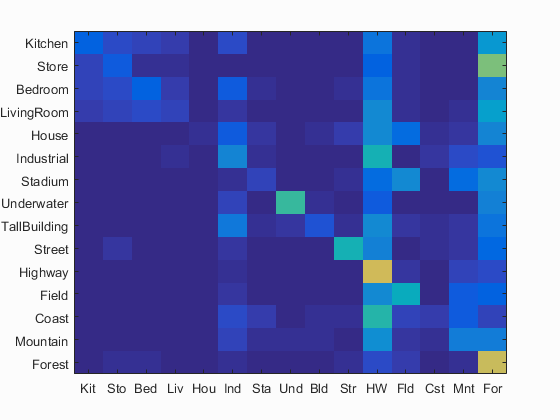
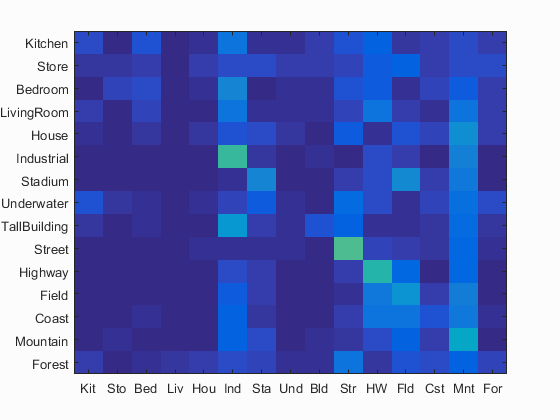
added tiny image

diff --git a/code/results_webpage/index.html b/code/results_webpage/index.html
@@ -36,7 +36,7 @@ h1 {
 <img src="confusion_matrix.png">
 
 <br>
-Accuracy (mean of diagonal of confusion matrix) is 0.268
+Accuracy (mean of diagonal of confusion matrix) is 0.201
 <p>
 
 <table border=0 cellpadding=4 cellspacing=1>
@@ -50,183 +50,183 @@ Accuracy (mean of diagonal of confusion matrix) is 0.268
 </tr>
 <tr>
 <td>Kitchen</td>
-<td>0.130</td>
-<td bgcolor=LightBlue><img src="thumbnails/Kitchen_sun_adcpeitzkudxavrz.jpg" width=101 height=75></td>
-<td bgcolor=LightBlue><img src="thumbnails/Kitchen_sun_actxaqzieosgkkbu.jpg" width=113 height=75></td>
-<td bgcolor=LightGreen><img src="thumbnails/Kitchen_sun_aaevfnfhjudhbvxh.jpg" width=75 height=75></td>
-<td bgcolor=LightGreen><img src="thumbnails/Kitchen_sun_aahxnzrpowefyvrp.jpg" width=113 height=75></td>
-<td bgcolor=LightCoral><img src="thumbnails/LivingRoom_sun_acejfwtqpleymxpj.jpg" width=100 height=75><br><small>LivingRoom</small></td>
-<td bgcolor=LightCoral><img src="thumbnails/Store_sun_ajxqnbvuflmzhcig.jpg" width=85 height=75><br><small>Store</small></td>
-<td bgcolor=#FFBB55><img src="thumbnails/Kitchen_sun_aahyfqarmjfribbj.jpg" width=101 height=75><br><small>Bedroom</small></td>
-<td bgcolor=#FFBB55><img src="thumbnails/Kitchen_sun_aauyknaheebshrxq.jpg" width=101 height=75><br><small>Field</small></td>
+<td>0.080</td>
+<td bgcolor=LightBlue><img src="thumbnails/Kitchen_sun_actuxtkmvrrackkr.jpg" width=101 height=75></td>
+<td bgcolor=LightBlue><img src="thumbnails/Kitchen_sun_actxvsxmlpovpnrs.jpg" width=75 height=75></td>
+<td bgcolor=LightGreen><img src="thumbnails/Kitchen_sun_aapxtqxqddghwgdr.jpg" width=75 height=75></td>
+<td bgcolor=LightGreen><img src="thumbnails/Kitchen_sun_aaxhazbcsixzxyca.jpg" width=101 height=75></td>
+<td bgcolor=LightCoral><img src="thumbnails/TallBuilding_sun_agqelgngebcticrt.jpg" width=75 height=75><br><small>TallBuilding</small></td>
+<td bgcolor=LightCoral><img src="thumbnails/Forest_sun_apswbydmjvgdlbna.jpg" width=75 height=75><br><small>Forest</small></td>
+<td bgcolor=#FFBB55><img src="thumbnails/Kitchen_sun_abjllhhfuvcygwtk.jpg" width=101 height=75><br><small>Highway</small></td>
+<td bgcolor=#FFBB55><img src="thumbnails/Kitchen_sun_aauyknaheebshrxq.jpg" width=101 height=75><br><small>Mountain</small></td>
 </tr>
 <tr>
 <td>Store</td>
-<td>0.120</td>
-<td bgcolor=LightBlue><img src="thumbnails/Store_sun_abkaxecjpzdozrqn.jpg" width=75 height=75></td>
-<td bgcolor=LightBlue><img src="thumbnails/Store_sun_aaaevafjexfriuyd.jpg" width=92 height=75></td>
-<td bgcolor=LightGreen><img src="thumbnails/Store_sun_aqjwciodhwilnihu.jpg" width=101 height=75></td>
-<td bgcolor=LightGreen><img src="thumbnails/Store_sun_arddxtgagmcfpsvm.jpg" width=113 height=75></td>
-<td bgcolor=LightCoral><img src="thumbnails/Mountain_sun_agvastrefugkefza.jpg" width=75 height=75><br><small>Mountain</small></td>
-<td bgcolor=LightCoral><img src="thumbnails/Bedroom_sun_acloeslvyupgjdit.jpg" width=100 height=75><br><small>Bedroom</small></td>
-<td bgcolor=#FFBB55><img src="thumbnails/Store_sun_aondbduabvijnmch.jpg" width=101 height=75><br><small>Forest</small></td>
-<td bgcolor=#FFBB55><img src="thumbnails/Store_sun_ambbbzanwbsjjxhq.jpg" width=110 height=75><br><small>Highway</small></td>
+<td>0.040</td>
+<td bgcolor=LightBlue><img src="thumbnails/Store_sun_acuaonqldlmxutdf.jpg" width=101 height=75></td>
+<td bgcolor=LightBlue><img src="thumbnails/Store_sun_acnysjlijtghazqq.jpg" width=75 height=75></td>
+<td bgcolor=LightGreen><img src="thumbnails/Store_sun_aqfdlqzwlyuyvior.jpg" width=111 height=75></td>
+<td bgcolor=LightGreen><img src="thumbnails/Store_sun_aqlgjsjialfkpdjq.jpg" width=75 height=75></td>
+<td bgcolor=LightCoral><img src="thumbnails/Underwater_sun_abuqgmwcaosdaztn.jpg" width=101 height=75><br><small>Underwater</small></td>
+<td bgcolor=LightCoral><img src="thumbnails/Bedroom_sun_aclmoxwmazctsgls.jpg" width=113 height=75><br><small>Bedroom</small></td>
+<td bgcolor=#FFBB55><img src="thumbnails/Store_sun_akqpikmgyzrpoilg.jpg" width=113 height=75><br><small>Industrial</small></td>
+<td bgcolor=#FFBB55><img src="thumbnails/Store_sun_amgycegphrxbrtcj.jpg" width=112 height=75><br><small>Industrial</small></td>
 </tr>
 <tr>
 <td>Bedroom</td>
-<td>0.130</td>
-<td bgcolor=LightBlue><img src="thumbnails/Bedroom_sun_aabmkmpbqhgzvwae.jpg" width=111 height=75></td>
-<td bgcolor=LightBlue><img src="thumbnails/Bedroom_sun_aaqopqrpmqlxfvyh.jpg" width=101 height=75></td>
-<td bgcolor=LightGreen><img src="thumbnails/Bedroom_sun_acmxkzoujllvqulm.jpg" width=59 height=75></td>
+<td>0.090</td>
+<td bgcolor=LightBlue><img src="thumbnails/Bedroom_sun_aazezsbjqxzmlvcs.jpg" width=113 height=75></td>
+<td bgcolor=LightBlue><img src="thumbnails/Bedroom_sun_aanrntiofcptovst.jpg" width=75 height=75></td>
+<td bgcolor=LightGreen><img src="thumbnails/Bedroom_sun_aciovxcdhkottyqz.jpg" width=101 height=75></td>
 <td bgcolor=LightGreen><img src="thumbnails/Bedroom_sun_acrzlmezpcezarjf.jpg" width=113 height=75></td>
-<td bgcolor=LightCoral><img src="thumbnails/Kitchen_sun_abntrinbqbsqoowj.jpg" width=101 height=75><br><small>Kitchen</small></td>
-<td bgcolor=LightCoral><img src="thumbnails/Kitchen_sun_abhciiurocosucnf.jpg" width=75 height=75><br><small>Kitchen</small></td>
-<td bgcolor=#FFBB55><img src="thumbnails/Bedroom_sun_abszhhvqtdvdfotq.jpg" width=75 height=75><br><small>Industrial</small></td>
-<td bgcolor=#FFBB55><img src="thumbnails/Bedroom_sun_abnzyrekdisfnzfw.jpg" width=96 height=75><br><small>Forest</small></td>
+<td bgcolor=LightCoral><img src="thumbnails/Underwater_sun_aeoukrxgtybudeiw.jpg" width=101 height=75><br><small>Underwater</small></td>
+<td bgcolor=LightCoral><img src="thumbnails/House_sun_balobrqpjrvarzyb.jpg" width=73 height=75><br><small>House</small></td>
+<td bgcolor=#FFBB55><img src="thumbnails/Bedroom_sun_acllustchfmypoct.jpg" width=84 height=75><br><small>Industrial</small></td>
+<td bgcolor=#FFBB55><img src="thumbnails/Bedroom_sun_abzaicgobhjswlxg.jpg" width=101 height=75><br><small>Highway</small></td>
 </tr>
 <tr>
 <td>LivingRoom</td>
-<td>0.070</td>
-<td bgcolor=LightBlue><img src="thumbnails/LivingRoom_sun_aaowumblhfnwbgpm.jpg" width=75 height=75></td>
-<td bgcolor=LightBlue><img src="thumbnails/LivingRoom_sun_aaxbyfbrznnapktx.jpg" width=75 height=75></td>
-<td bgcolor=LightGreen><img src="thumbnails/LivingRoom_sun_acfzhwqjvlkdirxy.jpg" width=102 height=75></td>
-<td bgcolor=LightGreen><img src="thumbnails/LivingRoom_sun_adclhkpdgajlngxu.jpg" width=101 height=75></td>
-<td bgcolor=LightCoral><img src="thumbnails/Bedroom_sun_abozwtvxafyzsijk.jpg" width=87 height=75><br><small>Bedroom</small></td>
-<td bgcolor=LightCoral><img src="thumbnails/TallBuilding_sun_ahqzjvpqkhhlglgd.jpg" width=75 height=75><br><small>TallBuilding</small></td>
-<td bgcolor=#FFBB55><img src="thumbnails/LivingRoom_sun_acswhqyzyuwhdbog.jpg" width=113 height=75><br><small>Highway</small></td>
-<td bgcolor=#FFBB55><img src="thumbnails/LivingRoom_sun_abzrswymomympbwx.jpg" width=111 height=75><br><small>Mountain</small></td>
+<td>0.010</td>
+<td bgcolor=LightBlue><img src="thumbnails/LivingRoom_sun_aagbmvdpwigkggbz.jpg" width=75 height=75></td>
+<td bgcolor=LightBlue><img src="thumbnails/LivingRoom_sun_aasjlkqrfdcvegal.jpg" width=75 height=75></td>
+<td bgcolor=LightGreen><img src="thumbnails/LivingRoom_sun_acxzrwenixbhhmhr.jpg" width=113 height=75></td>
+<td bgcolor=LightGreen></td>
+<td bgcolor=LightCoral><img src="thumbnails/House_sun_baifmibakbdayypj.jpg" width=101 height=75><br><small>House</small></td>
+<td bgcolor=LightCoral><img src="thumbnails/Forest_sun_ahbooqazpiiakayv.jpg" width=75 height=75><br><small>Forest</small></td>
+<td bgcolor=#FFBB55><img src="thumbnails/LivingRoom_sun_abxrqfxdgjdamlot.jpg" width=113 height=75><br><small>Highway</small></td>
+<td bgcolor=#FFBB55><img src="thumbnails/LivingRoom_sun_adclhkpdgajlngxu.jpg" width=101 height=75><br><small>Highway</small></td>
 </tr>
 <tr>
 <td>House</td>
-<td>0.020</td>
-<td bgcolor=LightBlue><img src="thumbnails/House_sun_abmsyegxigswbaqk.jpg" width=75 height=75></td>
-<td bgcolor=LightBlue><img src="thumbnails/House_sun_acqcimbshrdlefho.jpg" width=75 height=75></td>
+<td>0.040</td>
+<td bgcolor=LightBlue><img src="thumbnails/House_sun_adyxsmijhzmzdfgp.jpg" width=75 height=75></td>
+<td bgcolor=LightBlue><img src="thumbnails/House_sun_aanptmsknhirrzed.jpg" width=86 height=75></td>
+<td bgcolor=LightGreen><img src="thumbnails/House_sun_anxeayrdiomwrhru.jpg" width=114 height=75></td>
 <td bgcolor=LightGreen><img src="thumbnails/House_sun_baicxhbtbrdzxomn.jpg" width=100 height=75></td>
-<td bgcolor=LightGreen><img src="thumbnails/House_sun_awoutdjtqmknttqu.jpg" width=89 height=75></td>
-<td bgcolor=LightCoral><img src="thumbnails/Street_sun_atkejtodbqhvppba.jpg" width=75 height=75><br><small>Street</small></td>
-<td bgcolor=LightCoral><img src="thumbnails/Mountain_sun_afhhnevciblqzhjp.jpg" width=75 height=75><br><small>Mountain</small></td>
-<td bgcolor=#FFBB55><img src="thumbnails/House_sun_aqvugobpkcupewkf.jpg" width=75 height=75><br><small>Forest</small></td>
-<td bgcolor=#FFBB55><img src="thumbnails/House_sun_avbwlwempsfepkyx.jpg" width=75 height=75><br><small>Forest</small></td>
+<td bgcolor=LightCoral><img src="thumbnails/Store_sun_aiqtvlvgyhotrdhm.jpg" width=100 height=75><br><small>Store</small></td>
+<td bgcolor=LightCoral><img src="thumbnails/Store_sun_aqvwxcsdmkvrvkpd.jpg" width=101 height=75><br><small>Store</small></td>
+<td bgcolor=#FFBB55><img src="thumbnails/House_sun_amkcollfpzjaurpv.jpg" width=105 height=75><br><small>Coast</small></td>
+<td bgcolor=#FFBB55><img src="thumbnails/House_sun_ayynraeimvudtlij.jpg" width=116 height=75><br><small>Industrial</small></td>
 </tr>
 <tr>
 <td>Industrial</td>
-<td>0.260</td>
-<td bgcolor=LightBlue><img src="thumbnails/Industrial_sun_awfrigzimptflojr.jpg" width=75 height=75></td>
-<td bgcolor=LightBlue><img src="thumbnails/Industrial_sun_aicwjozvmwswfokp.jpg" width=75 height=75></td>
-<td bgcolor=LightGreen><img src="thumbnails/Industrial_sun_atftsrjnmaxwjmjz.jpg" width=88 height=75></td>
-<td bgcolor=LightGreen><img src="thumbnails/Industrial_sun_azedcgflqhpliash.jpg" width=100 height=75></td>
-<td bgcolor=LightCoral><img src="thumbnails/TallBuilding_sun_abocqbnjtgfnilnq.jpg" width=75 height=75><br><small>TallBuilding</small></td>
-<td bgcolor=LightCoral><img src="thumbnails/House_sun_autaxvdodpikcoje.jpg" width=75 height=75><br><small>House</small></td>
-<td bgcolor=#FFBB55><img src="thumbnails/Industrial_sun_aracnmgvrqkkzwnk.jpg" width=75 height=75><br><small>LivingRoom</small></td>
-<td bgcolor=#FFBB55><img src="thumbnails/Industrial_sun_agrhuyelgufdcomo.jpg" width=75 height=75><br><small>Highway</small></td>
+<td>0.510</td>
+<td bgcolor=LightBlue><img src="thumbnails/Industrial_sun_awmbpivjotemhqmh.jpg" width=60 height=75></td>
+<td bgcolor=LightBlue><img src="thumbnails/Industrial_sun_awvfesqofpnnqyhs.jpg" width=101 height=75></td>
+<td bgcolor=LightGreen><img src="thumbnails/Industrial_sun_agndzvxfhdciuqob.jpg" width=75 height=75></td>
+<td bgcolor=LightGreen><img src="thumbnails/Industrial_sun_akstvxwocpozpqrf.jpg" width=110 height=75></td>
+<td bgcolor=LightCoral><img src="thumbnails/Store_sun_aiwhlemizthotcmr.jpg" width=101 height=75><br><small>Store</small></td>
+<td bgcolor=LightCoral><img src="thumbnails/Field_sun_agyzjzqxfagvvhke.jpg" width=75 height=75><br><small>Field</small></td>
+<td bgcolor=#FFBB55><img src="thumbnails/Industrial_sun_awrwtixhaxaqlawt.jpg" width=75 height=75><br><small>Highway</small></td>
+<td bgcolor=#FFBB55><img src="thumbnails/Industrial_sun_atghowmvhntfvlbg.jpg" width=100 height=75><br><small>Highway</small></td>
 </tr>
 <tr>
 <td>Stadium</td>
-<td>0.070</td>
-<td bgcolor=LightBlue><img src="thumbnails/Stadium_sun_bpvmkbyglkraoxhh.jpg" width=101 height=75></td>
-<td bgcolor=LightBlue><img src="thumbnails/Stadium_sun_blayekwvxioejjcu.jpg" width=75 height=75></td>
-<td bgcolor=LightGreen><img src="thumbnails/Stadium_sun_ahzzktdsjbeosrow.jpg" width=101 height=75></td>
-<td bgcolor=LightGreen><img src="thumbnails/Stadium_sun_aekjenipocpkloxl.jpg" width=113 height=75></td>
-<td bgcolor=LightCoral><img src="thumbnails/Bedroom_sun_abxihwnodrvfwxvj.jpg" width=75 height=75><br><small>Bedroom</small></td>
-<td bgcolor=LightCoral><img src="thumbnails/Kitchen_sun_abnipsthatveonrh.jpg" width=103 height=75><br><small>Kitchen</small></td>
-<td bgcolor=#FFBB55><img src="thumbnails/Stadium_sun_alpqhowxoakwxpzo.jpg" width=101 height=75><br><small>Mountain</small></td>
-<td bgcolor=#FFBB55><img src="thumbnails/Stadium_sun_ahzinhmopbxpyzxc.jpg" width=101 height=75><br><small>Field</small></td>
+<td>0.250</td>
+<td bgcolor=LightBlue><img src="thumbnails/Stadium_sun_bfxvajxcotldimnc.jpg" width=75 height=75></td>
+<td bgcolor=LightBlue><img src="thumbnails/Stadium_sun_biryxeeksikbfwyf.jpg" width=101 height=75></td>
+<td bgcolor=LightGreen><img src="thumbnails/Stadium_sun_aqzxinwlbtlhsqse.jpg" width=101 height=75></td>
+<td bgcolor=LightGreen><img src="thumbnails/Stadium_sun_alhgjmygclhnkrwp.jpg" width=115 height=75></td>
+<td bgcolor=LightCoral><img src="thumbnails/Field_sun_ajosqiddwjzgiwfq.jpg" width=64 height=75><br><small>Field</small></td>
+<td bgcolor=LightCoral><img src="thumbnails/Mountain_sun_aeldkedqeopyedlo.jpg" width=75 height=75><br><small>Mountain</small></td>
+<td bgcolor=#FFBB55><img src="thumbnails/Stadium_sun_ajmgahmbxwrcktdf.jpg" width=120 height=75><br><small>Field</small></td>
+<td bgcolor=#FFBB55><img src="thumbnails/Stadium_sun_akxoyyfojekgytat.jpg" width=101 height=75><br><small>Coast</small></td>
 </tr>
 <tr>
 <td>Underwater</td>
-<td>0.510</td>
-<td bgcolor=LightBlue><img src="thumbnails/Underwater_sun_atbgemvbgmsgqgen.jpg" width=50 height=75></td>
-<td bgcolor=LightBlue><img src="thumbnails/Underwater_sun_atxlqnderrttxjgu.jpg" width=75 height=75></td>
-<td bgcolor=LightGreen><img src="thumbnails/Underwater_sun_akiqyaiylpmlbzgh.jpg" width=101 height=75></td>
-<td bgcolor=LightGreen><img src="thumbnails/Underwater_sun_ajbwpfcsdmoaykhw.jpg" width=134 height=75></td>
-<td bgcolor=LightCoral><img src="thumbnails/Coast_sun_aeueqptedzkfzzic.jpg" width=75 height=75><br><small>Coast</small></td>
-<td bgcolor=LightCoral><img src="thumbnails/Highway_sun_addhqfsqguphfbgu.jpg" width=75 height=75><br><small>Highway</small></td>
-<td bgcolor=#FFBB55><img src="thumbnails/Underwater_sun_acddxtucpfusphrk.jpg" width=101 height=75><br><small>Forest</small></td>
-<td bgcolor=#FFBB55><img src="thumbnails/Underwater_sun_adudrjkgekmvtdcn.jpg" width=101 height=75><br><small>Forest</small></td>
+<td>0.020</td>
+<td bgcolor=LightBlue><img src="thumbnails/Underwater_sun_aopnncapzpwluwrs.jpg" width=100 height=75></td>
+<td bgcolor=LightBlue><img src="thumbnails/Underwater_sun_apebuwnpyauglgqr.jpg" width=104 height=75></td>
+<td bgcolor=LightGreen><img src="thumbnails/Underwater_sun_agataqxpdumhcvkx.jpg" width=75 height=75></td>
+<td bgcolor=LightGreen><img src="thumbnails/Underwater_sun_abxdibkbtlcauloa.jpg" width=100 height=75></td>
+<td bgcolor=LightCoral><img src="thumbnails/House_sun_aretawkwdqsknmls.jpg" width=75 height=75><br><small>House</small></td>
+<td bgcolor=LightCoral><img src="thumbnails/Forest_sun_amfhxfakcdckrjul.jpg" width=75 height=75><br><small>Forest</small></td>
+<td bgcolor=#FFBB55><img src="thumbnails/Underwater_sun_adtdilppcnubbcly.jpg" width=75 height=75><br><small>Stadium</small></td>
+<td bgcolor=#FFBB55><img src="thumbnails/Underwater_sun_afqbxeenbpjiwcga.jpg" width=57 height=75><br><small>Mountain</small></td>
 </tr>
 <tr>
 <td>TallBuilding</td>
 <td>0.100</td>
-<td bgcolor=LightBlue><img src="thumbnails/TallBuilding_sun_amltjzpdmepzyhmm.jpg" width=75 height=75></td>
-<td bgcolor=LightBlue><img src="thumbnails/TallBuilding_sun_anpiwsqlhmanvmih.jpg" width=75 height=75></td>
-<td bgcolor=LightGreen><img src="thumbnails/TallBuilding_sun_aerqvpabkosejerk.jpg" width=96 height=75></td>
-<td bgcolor=LightGreen><img src="thumbnails/TallBuilding_sun_agdkmullbgyomjte.jpg" width=75 height=75></td>
-<td bgcolor=LightCoral><img src="thumbnails/Bedroom_sun_acnvueteextocalx.jpg" width=101 height=75><br><small>Bedroom</small></td>
-<td bgcolor=LightCoral><img src="thumbnails/Mountain_sun_addxakmrromunpyy.jpg" width=75 height=75><br><small>Mountain</small></td>
-<td bgcolor=#FFBB55><img src="thumbnails/TallBuilding_sun_aigydjqwfxltwqtr.jpg" width=75 height=75><br><small>Industrial</small></td>
-<td bgcolor=#FFBB55><img src="thumbnails/TallBuilding_sun_adnhftbownovbojd.jpg" width=75 height=75><br><small>Highway</small></td>
+<td bgcolor=LightBlue><img src="thumbnails/TallBuilding_sun_alxtafyntotcszoc.jpg" width=75 height=75></td>
+<td bgcolor=LightBlue><img src="thumbnails/TallBuilding_sun_apcaipiwztcbzocn.jpg" width=75 height=75></td>
+<td bgcolor=LightGreen><img src="thumbnails/TallBuilding_sun_ahisjbxkzdyoauum.jpg" width=75 height=75></td>
+<td bgcolor=LightGreen><img src="thumbnails/TallBuilding_sun_aftubvqlwgelvztb.jpg" width=75 height=75></td>
+<td bgcolor=LightCoral><img src="thumbnails/LivingRoom_sun_aboyowzsixxacwvy.jpg" width=75 height=75><br><small>LivingRoom</small></td>
+<td bgcolor=LightCoral><img src="thumbnails/Kitchen_sun_aargqoyvvsvylmht.jpg" width=113 height=75><br><small>Kitchen</small></td>
+<td bgcolor=#FFBB55><img src="thumbnails/TallBuilding_sun_abhfmupcwoqjgoqx.jpg" width=75 height=75><br><small>Mountain</small></td>
+<td bgcolor=#FFBB55><img src="thumbnails/TallBuilding_sun_afhzpdgsnondahgb.jpg" width=75 height=75><br><small>Industrial</small></td>
 </tr>
 <tr>
 <td>Street</td>
-<td>0.450</td>
-<td bgcolor=LightBlue><img src="thumbnails/Street_sun_agfyyoztdnxxlfta.jpg" width=75 height=75></td>
-<td bgcolor=LightBlue><img src="thumbnails/Street_sun_afhvalwknjrfpdjm.jpg" width=75 height=75></td>
-<td bgcolor=LightGreen><img src="thumbnails/Street_sun_apmjhccklkmawoyx.jpg" width=75 height=75></td>
+<td>0.540</td>
+<td bgcolor=LightBlue><img src="thumbnails/Street_sun_aekclyzwguxcaxrq.jpg" width=75 height=75></td>
+<td bgcolor=LightBlue><img src="thumbnails/Street_sun_agfkzxiosfnhhewl.jpg" width=75 height=75></td>
 <td bgcolor=LightGreen><img src="thumbnails/Street_sun_awvwzpmymymcviha.jpg" width=75 height=75></td>
-<td bgcolor=LightCoral><img src="thumbnails/House_sun_asrvshkmlswptzfa.jpg" width=113 height=75><br><small>House</small></td>
-<td bgcolor=LightCoral><img src="thumbnails/House_sun_avieahgctfqvkzzy.jpg" width=101 height=75><br><small>House</small></td>
-<td bgcolor=#FFBB55><img src="thumbnails/Street_sun_avxrcniddstcuuuc.jpg" width=75 height=75><br><small>Forest</small></td>
-<td bgcolor=#FFBB55><img src="thumbnails/Street_sun_awuoeamyrqnbetow.jpg" width=112 height=75><br><small>Highway</small></td>
+<td bgcolor=LightGreen><img src="thumbnails/Street_sun_auunjdlwxtuoyzns.jpg" width=75 height=75></td>
+<td bgcolor=LightCoral><img src="thumbnails/House_sun_anmsycaqwkhxentn.jpg" width=75 height=75><br><small>House</small></td>
+<td bgcolor=LightCoral><img src="thumbnails/Bedroom_sun_ablmiizbfnqbutao.jpg" width=101 height=75><br><small>Bedroom</small></td>
+<td bgcolor=#FFBB55><img src="thumbnails/Street_sun_avvrvnoksopijmkz.jpg" width=75 height=75><br><small>Highway</small></td>
+<td bgcolor=#FFBB55><img src="thumbnails/Street_sun_atzyjadgkypylonu.jpg" width=75 height=75><br><small>Mountain</small></td>
 </tr>
 <tr>
 <td>Highway</td>
-<td>0.740</td>
-<td bgcolor=LightBlue><img src="thumbnails/Highway_sun_allyzeegmzmqzkya.jpg" width=101 height=75></td>
-<td bgcolor=LightBlue><img src="thumbnails/Highway_sun_altvjtcdpogizvdt.jpg" width=75 height=75></td>
-<td bgcolor=LightGreen><img src="thumbnails/Highway_sun_acwcoqgsueznibgo.jpg" width=75 height=75></td>
-<td bgcolor=LightGreen><img src="thumbnails/Highway_sun_adszixwbpkeyttyo.jpg" width=75 height=75></td>
-<td bgcolor=LightCoral><img src="thumbnails/Mountain_sun_aciebeapldilzbug.jpg" width=75 height=75><br><small>Mountain</small></td>
-<td bgcolor=LightCoral><img src="thumbnails/House_sun_amkcollfpzjaurpv.jpg" width=105 height=75><br><small>House</small></td>
-<td bgcolor=#FFBB55><img src="thumbnails/Highway_sun_adbzzzmugxmixjsq.jpg" width=75 height=75><br><small>Field</small></td>
-<td bgcolor=#FFBB55><img src="thumbnails/Highway_sun_aegsqkufhfywhtkv.jpg" width=100 height=75><br><small>Field</small></td>
+<td>0.480</td>
+<td bgcolor=LightBlue><img src="thumbnails/Highway_sun_aglgicnxzylnegvr.jpg" width=75 height=75></td>
+<td bgcolor=LightBlue><img src="thumbnails/Highway_sun_aibialoozpwigqzt.jpg" width=75 height=75></td>
+<td bgcolor=LightGreen><img src="thumbnails/Highway_sun_abebnbxoqajwwzgn.jpg" width=75 height=75></td>
+<td bgcolor=LightGreen><img src="thumbnails/Highway_sun_afozqheshbqjejnz.jpg" width=75 height=75></td>
+<td bgcolor=LightCoral><img src="thumbnails/Field_sun_ajhuitviwpzojbzc.jpg" width=95 height=75><br><small>Field</small></td>
+<td bgcolor=LightCoral><img src="thumbnails/Store_sun_ajyrtpsnehibhndg.jpg" width=114 height=75><br><small>Store</small></td>
+<td bgcolor=#FFBB55><img src="thumbnails/Highway_sun_aciubdtdesszvsbj.jpg" width=75 height=75><br><small>Industrial</small></td>
+<td bgcolor=#FFBB55><img src="thumbnails/Highway_sun_acdcynrrzcbddrcj.jpg" width=75 height=75><br><small>Mountain</small></td>
 </tr>
 <tr>
 <td>Field</td>
-<td>0.420</td>
-<td bgcolor=LightBlue><img src="thumbnails/Field_sun_abzmppmowwqdcqov.jpg" width=115 height=75></td>
-<td bgcolor=LightBlue><img src="thumbnails/Field_sun_afsjpteynazhmmpj.jpg" width=75 height=75></td>
-<td bgcolor=LightGreen><img src="thumbnails/Field_sun_agmzrgigiokkwetw.jpg" width=75 height=75></td>
-<td bgcolor=LightGreen><img src="thumbnails/Field_sun_altbjiuqgjzqmmph.jpg" width=75 height=75></td>
-<td bgcolor=LightCoral><img src="thumbnails/Store_sun_aitcnbcmedtjukkd.jpg" width=100 height=75><br><small>Store</small></td>
-<td bgcolor=LightCoral><img src="thumbnails/Coast_sun_acoxpejhhxahkuxa.jpg" width=75 height=75><br><small>Coast</small></td>
-<td bgcolor=#FFBB55><img src="thumbnails/Field_sun_ahxadvqkjwujcvai.jpg" width=75 height=75><br><small>Highway</small></td>
-<td bgcolor=#FFBB55><img src="thumbnails/Field_sun_akwsnxmydjylkvqo.jpg" width=75 height=75><br><small>Mountain</small></td>
+<td>0.300</td>
+<td bgcolor=LightBlue><img src="thumbnails/Field_sun_adnzxzfmjotjqczp.jpg" width=75 height=75></td>
+<td bgcolor=LightBlue><img src="thumbnails/Field_sun_acrkvprzushyecgd.jpg" width=75 height=75></td>
+<td bgcolor=LightGreen><img src="thumbnails/Field_sun_ahxadvqkjwujcvai.jpg" width=75 height=75></td>
+<td bgcolor=LightGreen><img src="thumbnails/Field_sun_albgkiksixirxscq.jpg" width=104 height=75></td>
+<td bgcolor=LightCoral><img src="thumbnails/Forest_sun_anvrixbclgrqwwyg.jpg" width=116 height=75><br><small>Forest</small></td>
+<td bgcolor=LightCoral><img src="thumbnails/Stadium_sun_ajmgahmbxwrcktdf.jpg" width=120 height=75><br><small>Stadium</small></td>
+<td bgcolor=#FFBB55><img src="thumbnails/Field_sun_ahctbdbdxrqczjxu.jpg" width=75 height=75><br><small>Highway</small></td>
+<td bgcolor=#FFBB55><img src="thumbnails/Field_sun_ajzhplgyuzbctwnk.jpg" width=75 height=75><br><small>Mountain</small></td>
 </tr>
 <tr>
 <td>Coast</td>
-<td>0.050</td>
-<td bgcolor=LightBlue><img src="thumbnails/Coast_sun_ajnqydhyfjvafmqi.jpg" width=75 height=75></td>
-<td bgcolor=LightBlue><img src="thumbnails/Coast_sun_ajbvlkaiecytmxxz.jpg" width=75 height=75></td>
-<td bgcolor=LightGreen><img src="thumbnails/Coast_sun_aevdotmpzjqmardj.jpg" width=75 height=75></td>
-<td bgcolor=LightGreen><img src="thumbnails/Coast_sun_abodxeawiogjfusd.jpg" width=101 height=75></td>
-<td bgcolor=LightCoral><img src="thumbnails/Industrial_sun_ahviosoundezozlp.jpg" width=113 height=75><br><small>Industrial</small></td>
-<td bgcolor=LightCoral><img src="thumbnails/Street_sun_apjsxqxhpzvrikrh.jpg" width=113 height=75><br><small>Street</small></td>
-<td bgcolor=#FFBB55><img src="thumbnails/Coast_sun_afyypgfuxubvufgl.jpg" width=75 height=75><br><small>Stadium</small></td>
-<td bgcolor=#FFBB55><img src="thumbnails/Coast_sun_adpgnjzqnufekyua.jpg" width=75 height=75><br><small>Stadium</small></td>
+<td>0.100</td>
+<td bgcolor=LightBlue><img src="thumbnails/Coast_sun_agvxafjvgbpushsa.jpg" width=75 height=75></td>
+<td bgcolor=LightBlue><img src="thumbnails/Coast_sun_alinsryzafaylzsy.jpg" width=101 height=75></td>
+<td bgcolor=LightGreen><img src="thumbnails/Coast_sun_abwekjbuqgbqefvc.jpg" width=75 height=75></td>
+<td bgcolor=LightGreen><img src="thumbnails/Coast_sun_aboomzkpzllmcgcl.jpg" width=113 height=75></td>
+<td bgcolor=LightCoral><img src="thumbnails/Store_sun_ahmoznrxomkgrris.jpg" width=108 height=75><br><small>Store</small></td>
+<td bgcolor=LightCoral><img src="thumbnails/Bedroom_sun_acloeslvyupgjdit.jpg" width=100 height=75><br><small>Bedroom</small></td>
+<td bgcolor=#FFBB55><img src="thumbnails/Coast_sun_aclyvkawoqdlgzut.jpg" width=75 height=75><br><small>Highway</small></td>
+<td bgcolor=#FFBB55><img src="thumbnails/Coast_sun_aabqyxhpmoldhilm.jpg" width=75 height=75><br><small>Mountain</small></td>
 </tr>
 <tr>
 <td>Mountain</td>
-<td>0.220</td>
-<td bgcolor=LightBlue><img src="thumbnails/Mountain_sun_ayczuptifadkbfcr.jpg" width=110 height=75></td>
-<td bgcolor=LightBlue><img src="thumbnails/Mountain_sun_axqyztvuvcflmidb.jpg" width=135 height=75></td>
-<td bgcolor=LightGreen><img src="thumbnails/Mountain_sun_apexqmjjqdcobtpo.jpg" width=75 height=75></td>
-<td bgcolor=LightGreen><img src="thumbnails/Mountain_sun_aojuuyzjjdszxkdq.jpg" width=75 height=75></td>
-<td bgcolor=LightCoral><img src="thumbnails/Field_sun_akfvveysqolggckx.jpg" width=125 height=75><br><small>Field</small></td>
-<td bgcolor=LightCoral><img src="thumbnails/Highway_sun_aeaguliaknhqlcpe.jpg" width=75 height=75><br><small>Highway</small></td>
-<td bgcolor=#FFBB55><img src="thumbnails/Mountain_sun_aoppqvkqanosjhfy.jpg" width=75 height=75><br><small>Highway</small></td>
-<td bgcolor=#FFBB55><img src="thumbnails/Mountain_sun_aftjyxpthjnbvyjp.jpg" width=75 height=75><br><small>Industrial</small></td>
+<td>0.380</td>
+<td bgcolor=LightBlue><img src="thumbnails/Mountain_sun_aqvfyrxngyvvsivb.jpg" width=113 height=75></td>
+<td bgcolor=LightBlue><img src="thumbnails/Mountain_sun_atcoxsyskmhdwuik.jpg" width=75 height=75></td>
+<td bgcolor=LightGreen><img src="thumbnails/Mountain_sun_abvvlqznpdszhjnh.jpg" width=75 height=75></td>
+<td bgcolor=LightGreen><img src="thumbnails/Mountain_sun_aoioimqcartsexin.jpg" width=75 height=75></td>
+<td bgcolor=LightCoral><img src="thumbnails/Bedroom_sun_abufjhynjnqneima.jpg" width=101 height=75><br><small>Bedroom</small></td>
+<td bgcolor=LightCoral><img src="thumbnails/Street_sun_axfhnldjxdqlvzya.jpg" width=75 height=75><br><small>Street</small></td>
+<td bgcolor=#FFBB55><img src="thumbnails/Mountain_sun_aqlfnavingnojqkk.jpg" width=75 height=75><br><small>Industrial</small></td>
+<td bgcolor=#FFBB55><img src="thumbnails/Mountain_sun_anklzihugectcujf.jpg" width=101 height=75><br><small>Field</small></td>
 </tr>
 <tr>
 <td>Forest</td>
-<td>0.730</td>
-<td bgcolor=LightBlue><img src="thumbnails/Forest_sun_aavmjsbjgqgddgbj.jpg" width=113 height=75></td>
-<td bgcolor=LightBlue><img src="thumbnails/Forest_sun_aghvqopyxiqrebgw.jpg" width=75 height=75></td>
-<td bgcolor=LightGreen><img src="thumbnails/Forest_sun_agykuapojzoylzio.jpg" width=75 height=75></td>
-<td bgcolor=LightGreen><img src="thumbnails/Forest_sun_ambyixvpmdimogbn.jpg" width=75 height=75></td>
-<td bgcolor=LightCoral><img src="thumbnails/House_sun_aqbegmxbmsvqrdyi.jpg" width=75 height=75><br><small>House</small></td>
-<td bgcolor=LightCoral><img src="thumbnails/Kitchen_sun_aanpsytlewbiyypw.jpg" width=101 height=75><br><small>Kitchen</small></td>
-<td bgcolor=#FFBB55><img src="thumbnails/Forest_sun_aiwubhxguorovtgf.jpg" width=111 height=75><br><small>Street</small></td>
-<td bgcolor=#FFBB55><img src="thumbnails/Forest_sun_aidhlflrqqkdzeni.jpg" width=75 height=75><br><small>Highway</small></td>
+<td>0.070</td>
+<td bgcolor=LightBlue><img src="thumbnails/Forest_sun_akldfuxketeyqrcr.jpg" width=75 height=75></td>
+<td bgcolor=LightBlue><img src="thumbnails/Forest_sun_agpwmytrgotuwsyq.jpg" width=75 height=75></td>
+<td bgcolor=LightGreen><img src="thumbnails/Forest_sun_amzzjrmymdrrpegl.jpg" width=75 height=75></td>
+<td bgcolor=LightGreen><img src="thumbnails/Forest_sun_arepffrwpettjdji.jpg" width=75 height=75></td>
+<td bgcolor=LightCoral><img src="thumbnails/Bedroom_sun_achpninbzvnkkeoc.jpg" width=128 height=75><br><small>Bedroom</small></td>
+<td bgcolor=LightCoral><img src="thumbnails/Store_sun_apgngbakaimsvslv.jpg" width=101 height=75><br><small>Store</small></td>
+<td bgcolor=#FFBB55><img src="thumbnails/Forest_sun_aicewpdiethwjrdr.jpg" width=50 height=75><br><small>Highway</small></td>
+<td bgcolor=#FFBB55><img src="thumbnails/Forest_sun_awhqearfoticgzwy.jpg" width=75 height=75><br><small>House</small></td>
 </tr>
 <tr>
 <th>Category name</th>

diff --git a/code/coursework_starter.m b/code/coursework_starter.m
@@ -82,8 +82,8 @@ switch lower(FEATURE)
         % square portion out of each image. Making the tiny images zero mean and
         % unit length (normalizing them) will increase performance modestly.
         
-        train_image_feats = get_tiny_images2(train_image_paths, 16);
-        test_image_feats  = get_tiny_images2(test_image_paths, 16);
+       train_image_feats = get_tiny_images2(train_image_paths, 16);
+       test_image_feats  = get_tiny_images2(test_image_paths, 16);
     case 'colour histogram'
         %You should allow get_colour_histograms to take parameters e.g.
         %quantisation, colour space etc.

diff --git a/code/get_tiny_images2.m b/code/get_tiny_images2.m
@@ -2,8 +2,8 @@ function [feat] = get_tiny_images2(image_paths, sqrtD)
     feat = zeros(length(image_paths), sqrtD*sqrtD*3);
     for i = 1 : length(image_paths)
         img = imread(image_paths{i});
-        img = my_crop(img);
-        %img = imresize(img,[sqrtD sqrtD]);
-        feat(i, :) = img(:);    
+        %img = my_crop(img);
+        img = imresize(img,[sqrtD sqrtD]);
+        feat(i, :) = normalise_vector(img(:));    
     end
 end

diff --git a/code/my_crop.m b/code/my_crop.m
@@ -1,8 +1,6 @@
 function [cropped] = my_crop(img)
     height = size(img, 1);
     width = size(img, 2);
-    imshow(img);
-    size(img)
     if width < height
         xLeft = 1;
         yTop = (height-width)/2;
@@ -13,7 +11,5 @@ function [cropped] = my_crop(img)
         cropped = imcrop(img,[xLeft,yTop,height-1, height]);
     else 
         cropped = img;
-    end  
-    size(cropped)
-    imshow(cropped)       
+    end       
 end

diff --git a/code/normalise_vector.m b/code/normalise_vector.m
@@ -1,0 +1,6 @@
+function [normal_vector] = normalise_vector(img_vector)
+    normal_vector = double(img_vector - mean(img_vector));
+    normal_vector = normal_vector/std(normal_vector);
+end
+    
+    
